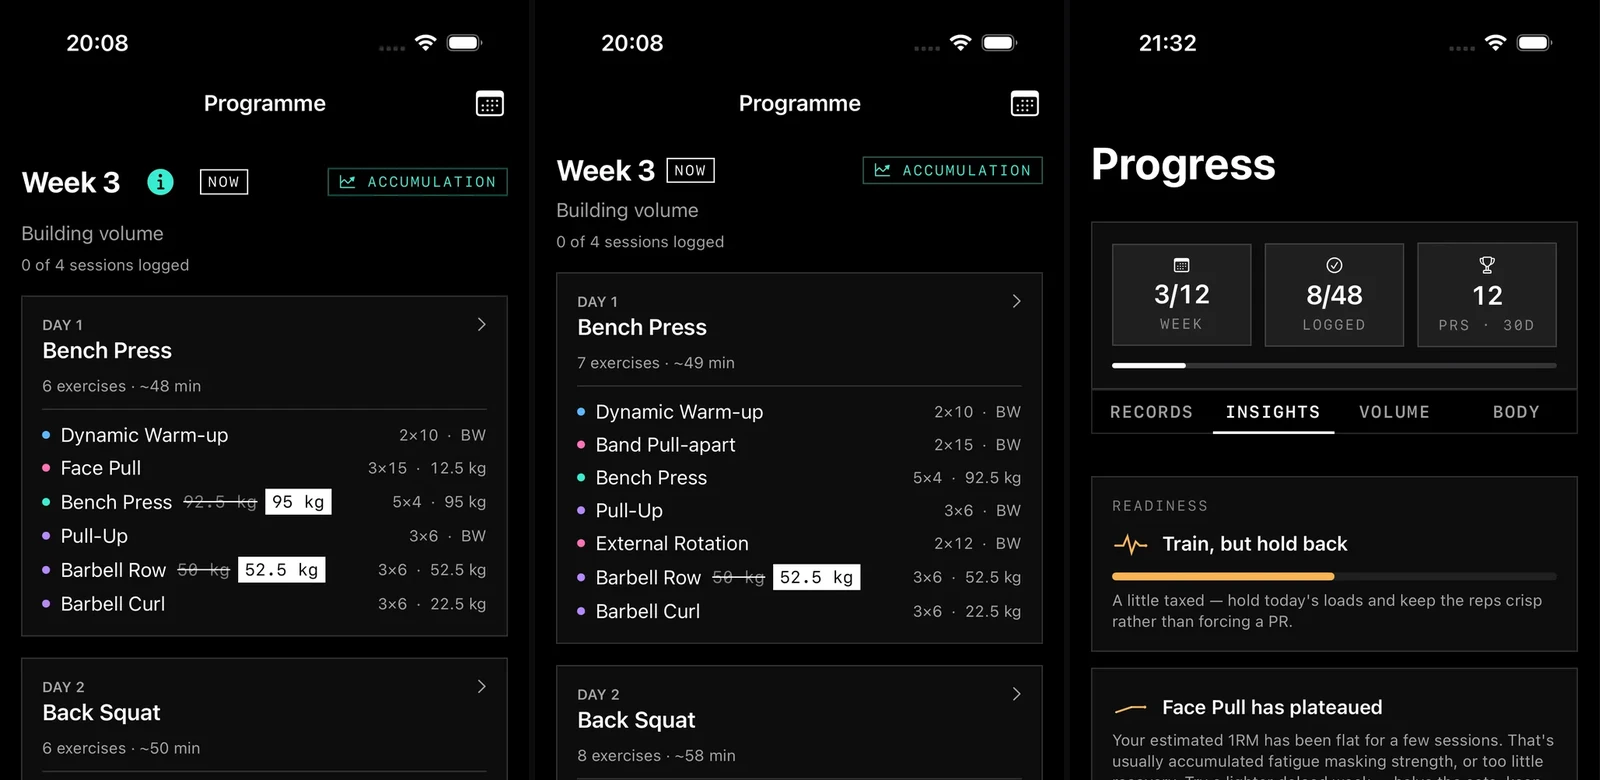
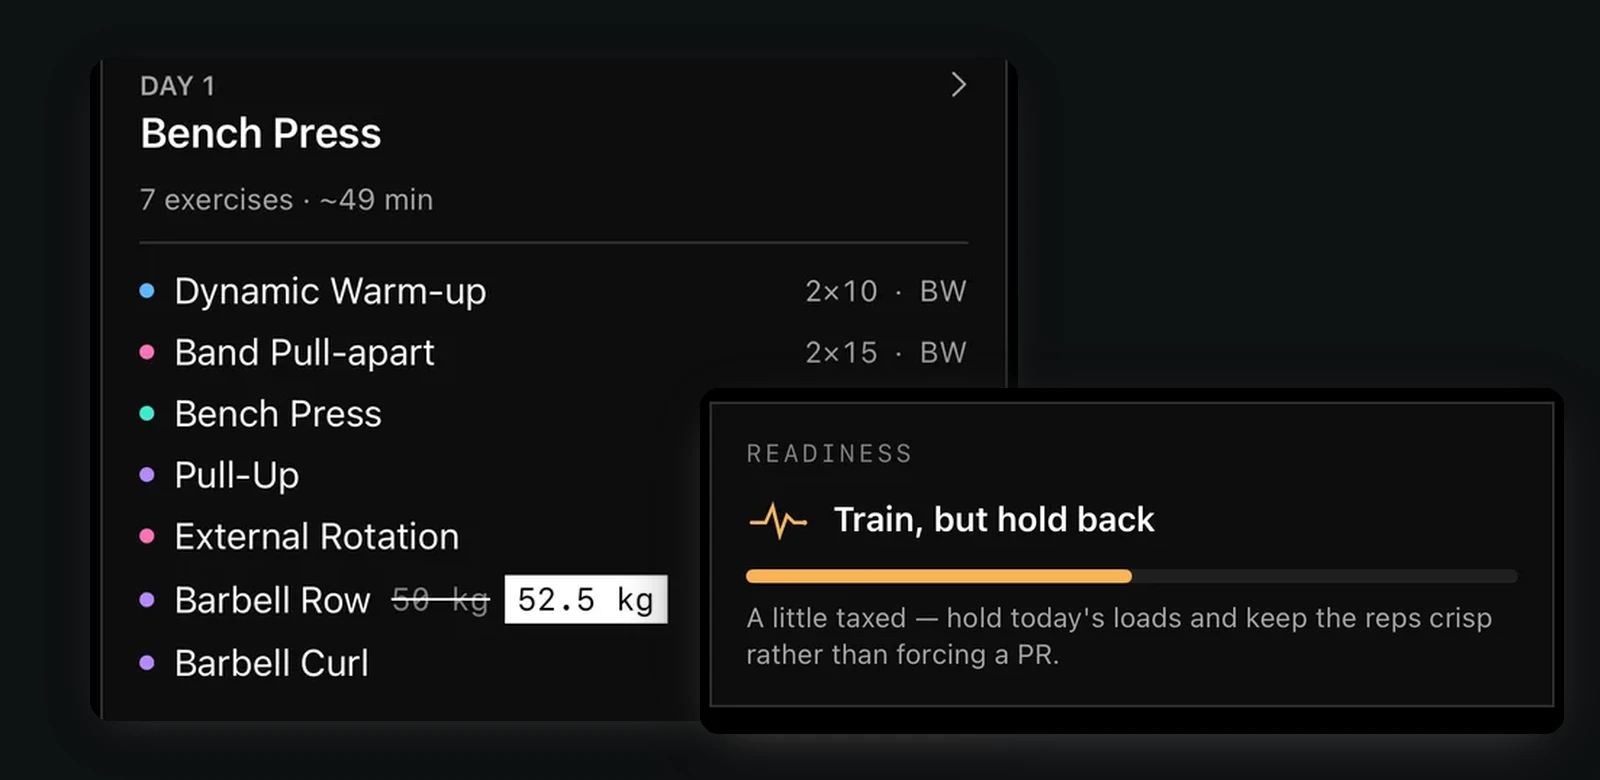
Granite and Frame tiles rebuilt per the screenshot-treatment research
Researched how the top tier actually art-directs app screenshots
(MetaLab's CMS assets downloaded and inspected, Apple's marketing crops,
Linear, Lickability, current Dribbble meta). The verdict named our exact
failure: two-plus full screens side by side at identical scale is
precisely the documentation signature -- the one thing no top-tier
source does. The unit of the image is never "the screenshot": it is a
moment (Apple), a component (MetaLab), or a layered composition
(Linear).

Granite is now a component specimen (the MetaLab recipe, executed dark):
the day-one card blown up past life size -- Barbell Row 50 kg struck
through, 52.5 written in, the entire product in one detail -- with the
amber "Train, but hold back" readiness card floating over it on a
near-black teal field. Whisper shadows, no bezels, no status bars.

Frame is base-plus-floating-detail (the Linear recipe), built from the
pristine 1320px App Store sources: the forgetting-curve card -- "How
well it's sticking, 63%. You start losing techniques around 2-4w" --
bleeding off the tile bottom, with today's game plan card layered over.
The app's thesis, charted, in its own dark theme.

Both compositions are crops and layering of genuine screenshots only --
nothing redrawn, no staged data. Alt text updated to describe what the
images now show.

diff --git a/index.html b/index.html
@@ -828,11 +828,11 @@ section.reveal>.wrap{position:relative;}
         <div class="wktext"><div class="wkn" style="view-transition-name:t-kaido">Kaido<em style="color:var(--acc-kaido)">.</em></div><div class="wkd">Criteria-based rehab planning for clinics &mdash; proposes and monitors, never clears.</div><div class="wkm"><span>SaaS &middot; B2B</span><span class="live">Piloting &middot; kaidohealth.co</span></div></div>
       </a>
       <a class="wkrow" href="work-granite.html">
-        <div class="wkmedia"><div class="spec"><i></i><i></i><i></i><i></i><div class="wkframe" style="view-transition-name:m-granite;aspect-ratio:1600/780"><img src="media/shots/g-tile.webp" alt="Granite — the week the engine builds, the week after you tell it something, and the plateau it caught" loading="lazy" width="1600" height="780"></div></div></div>
+        <div class="wkmedia"><div class="spec"><i></i><i></i><i></i><i></i><div class="wkframe" style="view-transition-name:m-granite;aspect-ratio:1600/780"><img src="media/shots/g-tile.webp" alt="Granite — the day-one card with loads struck through and rewritten, and the readiness verdict: train, but hold back" loading="lazy" width="1600" height="780"></div></div></div>
         <div class="wktext"><div class="wkn" style="view-transition-name:t-granite">Granite<em style="color:var(--acc-granite)">.</em></div><div class="wkd">A strength coach for athletes whose sport isn&rsquo;t lifting.</div><div class="wkm"><span>iOS &middot; On-device AI</span><span class="live">Alpha &middot; granite.coach</span></div></div>
       </a>
       <a class="wkrow" href="work-frame.html">
-        <div class="wkmedia"><div class="spec"><i></i><i></i><i></i><i></i><div class="wkframe" style="view-transition-name:m-frame;aspect-ratio:1600/780"><img src="media/shots/f-tile.webp" alt="Frame — today’s game plan, your ranked leaks, and the map of where you actually get caught" loading="lazy" width="1600" height="780"></div></div></div>
+        <div class="wkmedia"><div class="spec"><i></i><i></i><i></i><i></i><div class="wkframe" style="view-transition-name:m-frame;aspect-ratio:1600/780"><img src="media/shots/f-tile.webp" alt="Frame — the forgetting curve measured on your own reviews, with today’s game plan floating over it" loading="lazy" width="1600" height="780"></div></div></div>
         <div class="wktext"><div class="wkn" style="view-transition-name:t-frame">Frame<em style="color:var(--acc-frame)">.</em></div><div class="wkd">A BJJ journal built against the forgetting curve.</div><div class="wkm"><span>iOS &middot; Spaced recall</span><span class="live">Alpha &middot; framebjj.app</span></div></div>
       </a>
       <a class="wkrow" href="work-ikarao.html">
